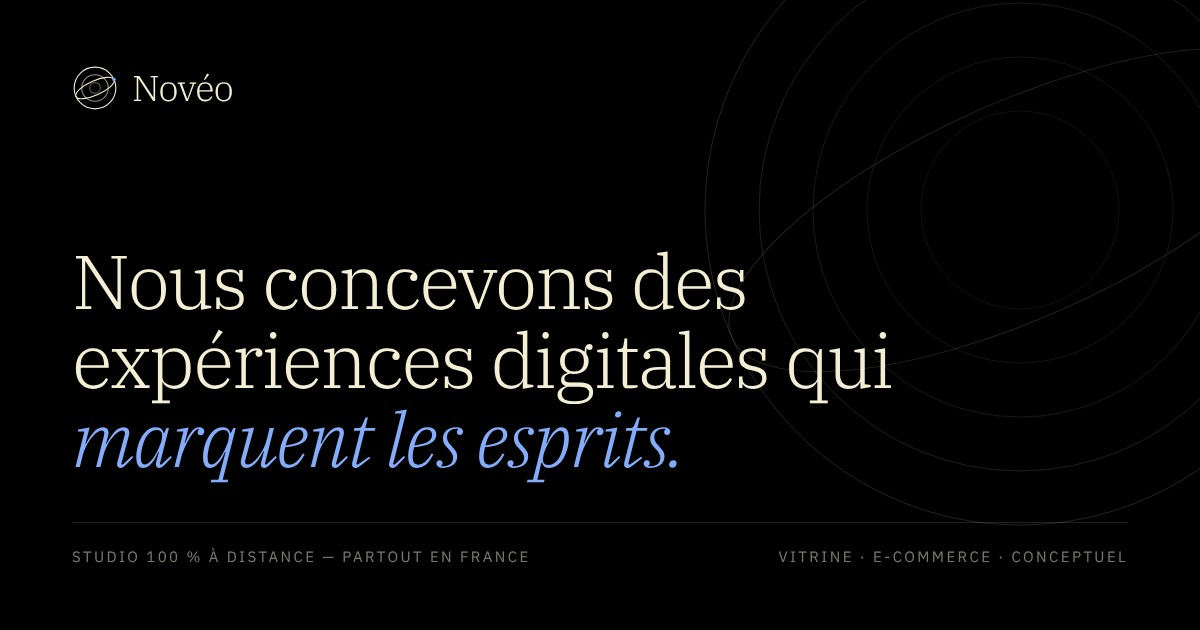
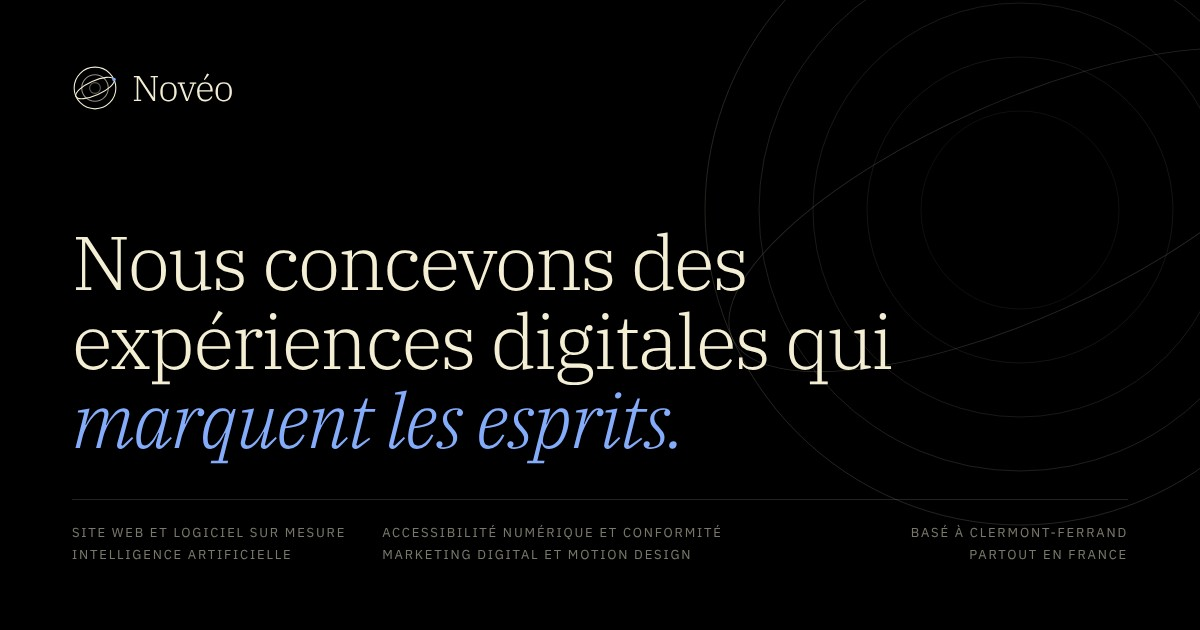
Base the studio in Clermont-Ferrand
The studio is no longer described as fully remote: texts, FAQ, legal
notice, structured data (address) and the social preview now say it is
based in Clermont-Ferrand and works everywhere in France. The preview
image lists the four offerings: site web et logiciel sur mesure,
accessibilité numérique et conformité, intelligence artificielle,
marketing digital et motion design.

Claude-Session: https://claude.ai/code/session_0167tsxH8E44ZuDBziwzALZz

diff --git a/src/components/sections/why-us.tsx b/src/components/sections/why-us.tsx
@@ -1,3 +1,4 @@
+import { CountUp } from "@/components/ui/count-up";
 import { Reveal, RevealLine } from "@/components/ui/reveal";
 import { Eyebrow } from "@/components/ui/section-header";
 import { TextReveal } from "@/components/ui/text-reveal";
@@ -20,7 +21,7 @@ export function WhyUs() {
             />
             <Reveal delay={0.15}>
               <p className="mt-10 max-w-md text-lead text-muted">
-                Novéo est un studio indépendant, entièrement à distance, qui accompagne des
+                Novéo est un studio indépendant basé à Clermont-Ferrand, qui accompagne des
                 entreprises partout en France. Notre conviction : un site web doit être aussi beau
                 qu&apos;efficace. Nous travaillons avec peu de clients à la fois, pour donner à
                 chacun toute notre attention.
@@ -32,8 +33,8 @@ export function WhyUs() {
                 <Reveal key={c.label} delay={0.1 * i}>
                   <dt className="sr-only">{c.label}</dt>
                   <dd>
-                    <span className="block font-serif text-[clamp(1.75rem,1.2rem+1.6vw,2.75rem)] leading-none font-light">
-                      {c.value}
+                    <span className="block font-serif text-[clamp(1.75rem,1.2rem+1.6vw,2.75rem)] leading-none font-light tabular-nums">
+                      <CountUp value={c.value} />
                     </span>
                     <span className="mt-3 block text-xs leading-relaxed text-faint">{c.label}</span>
                   </dd>

diff --git a/src/lib/site.ts b/src/lib/site.ts
@@ -14,8 +14,9 @@ export const siteConfig = {
   description:
     "Novéo conçoit des sites web haut de gamme : sites vitrines, boutiques e-commerce et expériences digitales conceptuelles. Design éditorial, SEO et performance maximale.",
   email: "novyli.digital@gmail.com",
-  /** The studio works fully remote: never tie it to a city. */
-  location: "Studio 100 % à distance — partout en France",
+  /** Where the studio is based, and the area it serves. */
+  location: "Basé à Clermont-Ferrand — partout en France",
+  city: "Clermont-Ferrand",
   /**
    * The studio's social profiles, e.g. { label: "Instagram", href: "https://…" }.
    * The footer column and the JSON-LD sameAs only appear when the list is not empty.

diff --git a/src/lib/content.ts b/src/lib/content.ts
@@ -262,6 +262,6 @@ export const faqs = [
   {
     question: "Travaillez-vous avec des entreprises partout en France ?",
     answer:
-      "Oui. Novéo est un studio entièrement à distance : nous accompagnons des entreprises dans toute la France. Les échanges se font en visioconférence, par téléphone et par e-mail, avec un interlocuteur unique du premier appel à la mise en ligne.",
+      "Oui. Basé à Clermont-Ferrand, Novéo accompagne des entreprises dans toute la France. Les échanges se font en visioconférence, par téléphone et par e-mail, avec un interlocuteur unique du premier appel à la mise en ligne.",
   },
 ] as const;

diff --git a/src/app/mentions-legales/page.tsx b/src/app/mentions-legales/page.tsx
@@ -18,7 +18,7 @@ export default function LegalNoticePage() {
       sections={[
         {
           title: "Éditeur du site",
-          body: `${siteConfig.legalName} — [forme juridique, capital social]. Siège social : [adresse]. SIRET : [numéro]. Directeur de la publication : [nom]. Contact : ${siteConfig.email}.`,
+          body: `${siteConfig.legalName} — [forme juridique, capital social]. Siège social : [adresse], ${siteConfig.city}. SIRET : [numéro]. Directeur de la publication : [nom]. Contact : ${siteConfig.email}.`,
         },
         {
           title: "Hébergement",

diff --git a/src/components/seo/json-ld.tsx b/src/components/seo/json-ld.tsx
@@ -16,6 +16,12 @@ const graph = {
       image: `${siteConfig.url}/opengraph-image.jpg`,
       description: siteConfig.description,
       email: siteConfig.email,
+      address: {
+        "@type": "PostalAddress",
+        addressLocality: siteConfig.city,
+        addressRegion: "Auvergne-Rhône-Alpes",
+        addressCountry: "FR",
+      },
       areaServed: { "@type": "Country", name: "France" },
       ...(siteConfig.socials.length > 0 ? { sameAs: siteConfig.socials.map((s) => s.href) } : {}),
       hasOfferCatalog: {

diff --git a/src/components/sections/contact.tsx b/src/components/sections/contact.tsx
@@ -45,7 +45,7 @@ export function Contact() {
             <div>
               <p className="text-xs tracking-[0.14em] text-faint uppercase">Fonctionnement</p>
               <p className="mt-3 text-body text-muted">
-                Studio 100 % à distance, aux côtés d&apos;entreprises partout en France.
+                Basés à Clermont-Ferrand, aux côtés d&apos;entreprises partout en France.
                 <br />
                 Du lundi au vendredi, 9 h – 19 h.
               </p>
